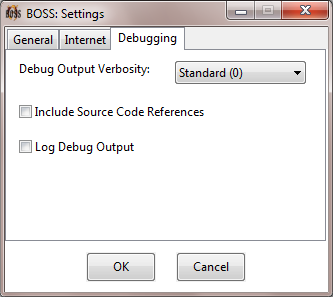
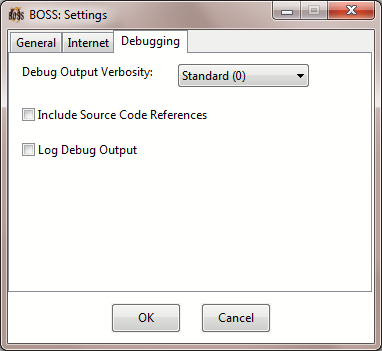
- Updated readme and screenshots. - Fixed layout bug in GUI Settings window.
git-svn-id: http://better-oblivion-sorting-software.googlecode.com/svn@4926 bfee223e-1fc4-11de-b650-e715bd6d7cf1

Changed region(s): [[0.0, 0.0, 1.0, 1.0]]

diff --git a/data/boss-common/BOSS Readme.html b/data/boss-common/BOSS Readme.html
@@ -121,7 +121,7 @@
 <p style="clear:both;">
 
 <h2 id="intro">Introduction</h2>
-<p>BOSS helps mod users avoid serious conflicts by setting the mod plugins they have installed in their optimal load order. BOSS recognises over 22,100 plugins across the 6 games it supports, with the breakdown being roughly:
+<p>BOSS is designed to assist mod users in avoiding serious conflicts, by setting the correct load order for the plugins they have installed. BOSS recognises over 22,100 plugins across the 6 games it supports, with the breakdown being roughly:
 <ul>
 	<li>13,300+ TES IV: Oblivion plugins.
 	<li>3,500+ TES V: Skyrim plugins.
@@ -129,7 +129,7 @@
 	<li>3,100+ Fallout: New Vegas plugins.
 	<li>180+ Nehrim - At Fate's Edge plugins.
 </ul>
-<p>To set the proper load order for mod plugins that BOSS doesn't know about, a good working knowledge of load ordering is still necessary. See <a href="#appendix-a">Introduction To Load Orders</a> for an overview.
+<p>BOSS is not a complete solution to load ordering issues, as there are far more mods available than it knows about. To properly place plugins from such mods, a good working knowledge of mod load ordering is still necessary, for which some research and documentation reading will go a long way. See <a href="#appendix-a">Introduction To Load Orders</a> for an overview.
 <p><strong>Although BOSS technically supports TES III: Morrowind, no mod plugins are recognised and no further support is planned.</strong> Morrowind users looking for an automated load order manager should consider using <a href="http://code.google.com/p/mlox/">mlox</a> instead.
 <p>BOSS sorts plugins ghosted by the <abbr title="Wrye Bash, Wrye Flash or Wrye Flash NV">Wrye *ash</abbr> utilities, and provides Bash Tag suggestions. It also provides over 10,000 plugin-specific messages, including usage notes, requirements, incompatibilities, warnings on bugs and installation mistake notifications. The positioning of plugins and the messages BOSS displays for them can be easily customised, and BOSS has a large number of options to control its features and how it displays its output.
 <p>Finally, if you're developing a modding utility and find yourself dealing with load orders, the BOSS API gives access to almost all of BOSS's functionality, plus more general load order and active status management functionality that works uniformly across all supported games. See the <a href="BOSS%20API%20Readme.html">BOSS API Readme</a> for more information on that.
@@ -243,7 +243,7 @@
 <img alt="settings window tab 1" src="images/GUI-Settings-1.png"/>
 <img alt="settings window tab 2" src="images/GUI-Settings-2.png"/>
 <img alt="settings window tab 3" src="images/GUI-Settings-3.png"/>
-<figcaption style="padding-top:340px;">The 3 tabs of the GUI's Settings window (animated slideshow).</figcaption>
+<figcaption style="padding-top:350px;">The 3 tabs of the GUI's Settings window (animated slideshow).</figcaption>
 </figure>
 <p>BOSS's less commonly used settings are found in the Settings window, which can be accessed by clicking <q>Edit&#x2192;Settings...</q> in the main window's menu bar. The settings are grouped into tabs depending on what area of BOSS's behaviour they control. The settings are detailed in the table below.
 <table>
@@ -402,7 +402,7 @@ A value of <code>2</code> will restore the load order to that stored in modlist.
 <h3 id="cli-ini">The BOSS.ini</h3>
 <figure>
 <img alt="userlist" src="images/Ini.png"/>
-<figcaption>An example BOSS.ini, as viewed in Notepad. In this BOSS.ini, the BOSS Log format has been set to plain text.</figcaption>
+<figcaption>An example BOSS.ini, as viewed in Notepad.</figcaption>
 </figure>
 <p>Users can edit all of BOSS's settings in the BOSS.ini. This is where BOSS gets its settings from when launching the CLI and the GUI. If BOSS is run and it cannot find a BOSS.ini, it will generate a new one with default settings. If the CLI is run with both a BOSS.ini present and command line parameters set, the command line parameters override the settings in BOSS.ini. The ini is split into the following sections:
 <h4 id="cli-ini-general">General Settings</h4>
@@ -804,9 +804,15 @@ threads when you read this. Just navigate through to the latest thread to post a
 <h2 id="appendix">Appendices</h2>
 <h3 id="appendix-a">Appendix A: Introduction To Load Orders</h3>
 <p>This appendix provides a general overview of load ordering in the games BOSS supports for those who are unfamiliar with the concept. For simplicity, <q>the game</q> will be used when the text refers to any of the games that BOSS supports.
-<p>Mod plugins for the game are files that end in <code>.esp</code> or <code>.esm</code>. These files are created by the game's official editing tools, or by third party modders' tools. They contain various data entries. These entries can either be brand new additions, or changes to entries added by another plugin, including the game's main master file (Morrowind.esm, Oblivion.esm, Nehrim.esm, Skyrim.esm, Fallout3.esm or FalloutNV.esm depending on the game). Entries cover almost all aspects of what is in the game, eg. NPCs, items, races, interiors, worlds, quests, etc.
-<p>When the game is run, it reads the contents of the active plugins and applies their entries in the order that the plugins are read. This leads to the <q>rule of one</q>, ie. one entry can only be modified by one plugin. As such, when several plugins modify the same entry, the plugin that is read last has its changes override the other plugins' changes for that entry. There is one exception to the <q>rule of one</q>, and that is that the contents of cells (the physical space in which your character moves) can be changed by any number of plugins, so different plugins can add objects to cells, move them around or remove them and all will see their changes applied by the game.
-<p>This order in which the game reads active plugins is, unsurprisingly, what is referred to as the load order. By changing the load order, you can change which plugins override and which are overridden, and so reduce detrimental conflicts. You cannot actually reduce how much is overridden through load order alone, but it is often the case that some overrides are acceptable while others cause problems in game. Setting a good load order is the process by which you seek to maximise the former instead of the latter. That is why load order matters. 
+<p>Mod plugins for the game are files that end in <code>.esp</code> or <code>.esm</code>. These files are created by the game's official editing tools, or by third party modders' tools. They contain various data entries, which can either be brand new additions or changes to the entries added by another plugin, including the game's main master file (Morrowind.esm, Oblivion.esm, Nehrim.esm, Skyrim.esm, Fallout3.esm or FalloutNV.esm depending on the game). These entries cover almost all aspects of what is in the game, eg. NPCs, items, races, interiors, worlds, quests, etc.
+<p>When the game is run, it loads each of the plugins you have installed one by one. The order in which it loads them is, unsurprisingly, what is referred to as the load order. The load order is important for two reasons:
+<ul>
+ <li>Dependency resolution.
+ <li>Conflict resolution.
+</ul>
+<p>A plugin which changes the entries added by other plugins is dependent on those other plugins, and the game requires all of the latter plugins to be loaded before the former. If they aren't, the game will crash on launch.
+<p>The game can only apply one version of any one entry (this is known as the <q>rule of one</q>). Therefore, when more than one plugin changes the same entry, the load order is used to decide which plugin's changes are applied. Put simply, the last loaded plugin's changes are applied. The one exception to the <q>rule of one</q> is that the contents of cells (the physical space in which your character moves) can be changed by any number of plugins, so different plugins can add objects to cells, move them around or remove them and all will see their changes applied by the game.
+<p>By changing the load order, you can change which plugins override and which are overridden, and so reduce detrimental conflicts. You cannot actually reduce how much is overridden through load order alone, but it is often the case that some overrides are acceptable while others cause problems in game. Setting a good load order is the process by which you seek to maximise the former instead of the latter.
 <p>Further compatibility between mods is then possible through the use of patches, which are made to address incompatibilities between specific mods, and through the use of Wrye Bash, which can create a <q>Bashed Patch</q> that allows you to select between types of changes for different mods. For example, two mods change a piece of armour, but one changes how it looks and the other changes its effectiveness: through load order alone you could only ever get one change, but using Wrye Bash you can get both, because they change different things in the same armour entry.
 <p>There are a few hardcoded rules that trump load order in many cases:
 <ul>
@@ -815,9 +821,9 @@ threads when you read this. Just navigate through to the latest thread to post a
  <li>In Skyrim, <code>Skyrim.esm</code> always loads before all other plugins.
  <li>In Skyrim, if <code>Update.esm</code> is present, it is always loaded. If it has no load order position set, it loads after all other master plugins. That might sound a bit odd, but thanks to Skyrim's load order mechanism, it is possible for it to have no set load order position, even though it is always loaded.
 </ul>
-<p>A plugin's position in the load order is often displayed by mod managers as a hexadecimal number, from 00 to FE (0 to 255 in decimal). The plugin with position 00 loads first, and the plugin with position FE is loaded last. Hexadecimal numbers are used to display the load order positions of plugins because these numbers form the first two digits of the code that the game uses to reference the entries that the plugin adds, so knowing the numbers is very useful to modders or anyone trying to reference entries in the in-game console, which uses these codes.
+<p>A plugin's position in the load order is often displayed by mod managers as a hexadecimal number, from 00 to FE (0 to 255 in decimal). The plugin with position 00 loads first, and the plugin with position FE is loaded last. Hexadecimal numbers are used to display the load order positions of plugins because these numbers form the first two digits of the code that the game uses to reference the entries that the plugin adds, so knowing the numbers allows modders and mod users to determine from which plugin an entry is from.
 <p>That's all that you as a mod user <em>need</em> to know about load orders. If you want to find out more about the actual mechanism by which the game decides the load order, read on.
-<p>Morrowind, Oblivion, Nehrim, Fallout 3 and Fallout: New Vegas all share the same mechanism for deciding load order (though Morrowind uses a different file to list its active load order in - but that won't be discussed here). Skyrim, since the 1.4.26 patch, uses a different mechanism.
+<p>Morrowind, Oblivion, Nehrim, Fallout 3 and Fallout: New Vegas all share the same mechanism for deciding load order (though Morrowind uses a different file to list its active load order in from the others - but that won't be discussed here). Skyrim, since the 1.4.26 patch, uses a different mechanism.
 <p>Load order for Morrowind, Oblivion, Nehrim, Fallout 3 and Fallout: New Vegas is decided by the modification date timestamps of the mod plugins. The active plugin with the earliest date loads first, with plugins being listed in descending date order (earliest to latest). It's a bad idea for a plugin that isn't the game's main master file to load first.
 <p>Skyrim's mechanism uses the order that plugins are listed within its <code>plugins.txt</code> file as its load order (from top to bottom). This file is the one in which the list of active plugins is stored, so only active plugins can be strictly said to have a load order. As any further discussion of this and its consequences gets a bit technical, see the <a href="BOSS%20API%20Readme.html">BOSS API Readme</a> for more information.
 

diff --git a/code/trunk/boss-gui/GUI/SettingsWindow.cpp b/code/trunk/boss-gui/GUI/SettingsWindow.cpp
@@ -93,15 +93,8 @@ SettingsFrame::SettingsFrame(const wxString title, wxFrame *parent) : wxFrame(pa
 	GeneralTabSizer->Add(UseUserRuleManagerBox = new wxCheckBox(GeneralTab,wxID_ANY,translate("Use User Rules Manager")), wholeItem);
 	GeneralTabSizer->Add(CloseGUIAfterRunningBox = new wxCheckBox(GeneralTab,wxID_ANY,translate("Close the GUI after running BOSS")), wholeItem);
 
-	/*wxStaticText *gameText;
-	wxString text = wxT("If the default game is set to Autodetect, BOSS will try to autodetect a game to run for, and will ask you to choose a game if it finds more than one.\n\n");
-	text += wxT("If the default game is set to a specific game, and BOSS is not run to only update the masterlist, BOSS will attempt to run for that game, falling back to autodetection if it cannot be found.\n\n");
-	text += wxT("If the default game is set to a specific game, and BOSS is run to only update the masterlist, BOSS will run for that game whether or not it is detected.");
-	GeneralTabSizer->Add(gameText = new wxStaticText(GeneralTab, wxID_ANY, text), 1, wxEXPAND|wxALL, 10);
-	*/
-	wxStaticText *langText;
-	wxString text = translate("Language settings will be applied after the BOSS GUI is closed and re-opened.");
-	GeneralTabSizer->Add(langText = new wxStaticText(GeneralTab, wxID_ANY, text), 1, wxEXPAND|wxALL, 10);
+	wxString text = translate("Language settings will be applied after the BOSS GUI is restarted.");
+	GeneralTabSizer->Add(new wxStaticText(GeneralTab, wxID_ANY, text), 1, wxEXPAND|wxALL, 10);
 	
 	GeneralTab->SetSizer(GeneralTabSizer);
 
@@ -121,7 +114,9 @@ SettingsFrame::SettingsFrame(const wxString title, wxFrame *parent) : wxFrame(pa
 	InternetTabSizer->Add(new wxStaticText(InternetTab, wxID_ANY, translate("Proxy Password:")), leftItem);
 	InternetTabSizer->Add(ProxyPasswdBox = new wxTextCtrl(InternetTab,wxID_ANY), rightItem);
 
-	InternetTab->SetSizer(InternetTabSizer);
+	InternetTabSizer->AddStretchSpacer();
+
+	InternetTab->SetSizerAndFit(InternetTabSizer);
 
 	//Create Debugging Settings tab.
 	DebugTab = new wxPanel(TabHolder);
